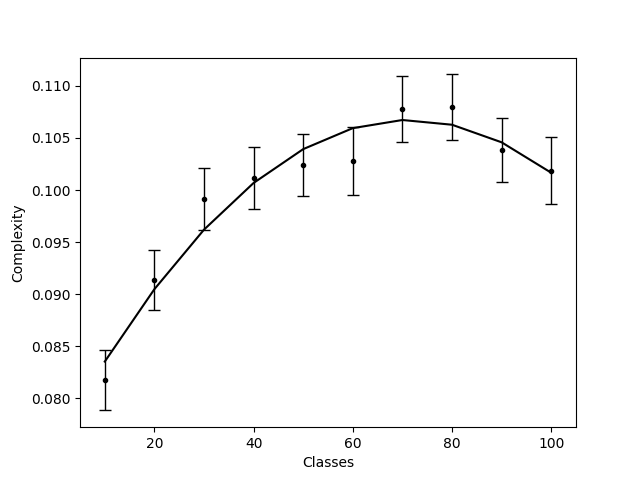
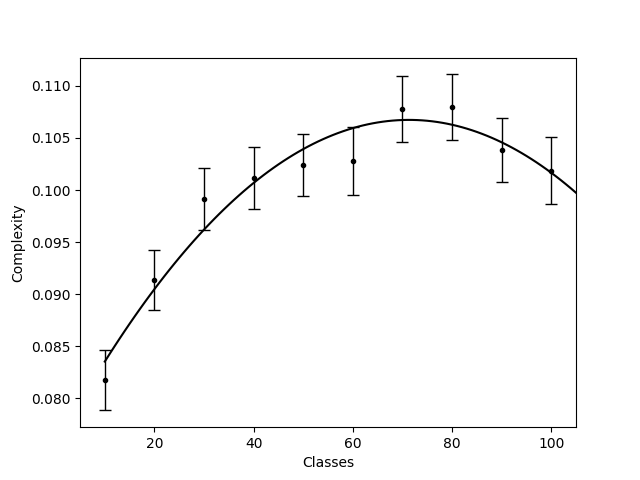
ready for presentation

diff --git a/dev/complexity/classes_exp/model_fit.py b/dev/complexity/classes_exp/model_fit.py
@@ -107,7 +107,7 @@ with open('data/random.csv', newline='') as csvfile:
 print('Data Loaded...')
 
 k = []
-fig, axs = plt.subplots(2, 3)
+fig, axs = plt.subplots(2, 5)
 c = 0
 e = []
 
@@ -153,11 +153,11 @@ for name in results.keys():
     print('Coefficient of determination: %.2f'
       % metrics.r2_score(y_data, pred))
 
-    axs[c % 2, c % 3].scatter(x_data, y_data)
-    axs[c % 2, c % 3].scatter(x_data, pred)
-    axs[c % 2, c % 3].set_xlabel('Accuracy')
-    axs[c % 2, c % 3].set_ylabel('log(TP)')
-    axs[c % 2, c % 3].set_title(name)
+    axs[int(c/5), c % 5].scatter(x_data, y_data)
+    axs[int(c/5), c % 5].scatter(x_data, pred)
+    axs[int(c/5), c % 5].set_xlabel('Accuracy')
+    axs[int(c/5), c % 5].set_ylabel('log(TP)')
+    axs[int(c/5), c % 5].set_title(name)
 
     point = np.reshape(np.asarray([1.0]), (-1,1))
     k.append(regressor.predict(point)[0])

diff --git a/dev/complexity/distrbiution_exp/model_fit.py b/dev/complexity/distrbiution_exp/model_fit.py
@@ -55,7 +55,7 @@ def box_data(data):
         for i in data[name]:
             x_data.append(i[4])
             y_data.append(i[2])
-        
+      
         # Find min/max score
         min_s = min(x_data)
         max_s = max(x_data)
@@ -98,7 +98,10 @@ with open('data/results.csv', newline='') as csvfile:
 
         datum.append(int(row[3]))
         datum.append(float(row[5]))
-        
+
+        if float(row[5]) < 0.45:
+            continue
+
         # Check if it already exists
         if dist not in results:
             results[dist] = []

diff --git a/dev/complexity/distrbiution_exp/plot.py b/dev/complexity/distrbiution_exp/plot.py
@@ -15,7 +15,7 @@ distance = [0.0, 0.1581138830084191, 0.31622776601683805, 0.4743416490252568, 0.
 
 print(len(auc), len(mse), len(distance))
 
-x = over
+x = distance
 number_of_domains = len(auc)
 
 # Normalize everything to sum=1
@@ -45,7 +45,7 @@ plt.plot(x, p(x), color='black')
 #plt.scatter(x, over, color='red')
 
 # Formatting
-plt.xlim(0.0, 1.0)
+plt.xlim(-0.1, 3.1)
 plt.ylim(0, 0.2)
 plt.xlabel('Cluster Overlap')
 plt.ylabel('Complexity')

diff --git a/dev/complexity/classes_exp/plot.py b/dev/complexity/classes_exp/plot.py
@@ -27,8 +27,8 @@ plt.errorbar(np.arange(10, 110, step=10), auc, yerr=[standard_error, standard_er
              fmt='.k', ecolor='black', lw=1, capsize=4, capthick=1)
 
 # Trendline
-x = np.arange(10, 110, step=10)
-z = np.polyfit(x, auc, 2)
+x = np.arange(10, 110, step=1)
+z = np.polyfit(np.arange(10, 110, step=10), auc, 2)
 p = np.poly1d(z)
 plt.plot(x, p(x), color='black')
 
